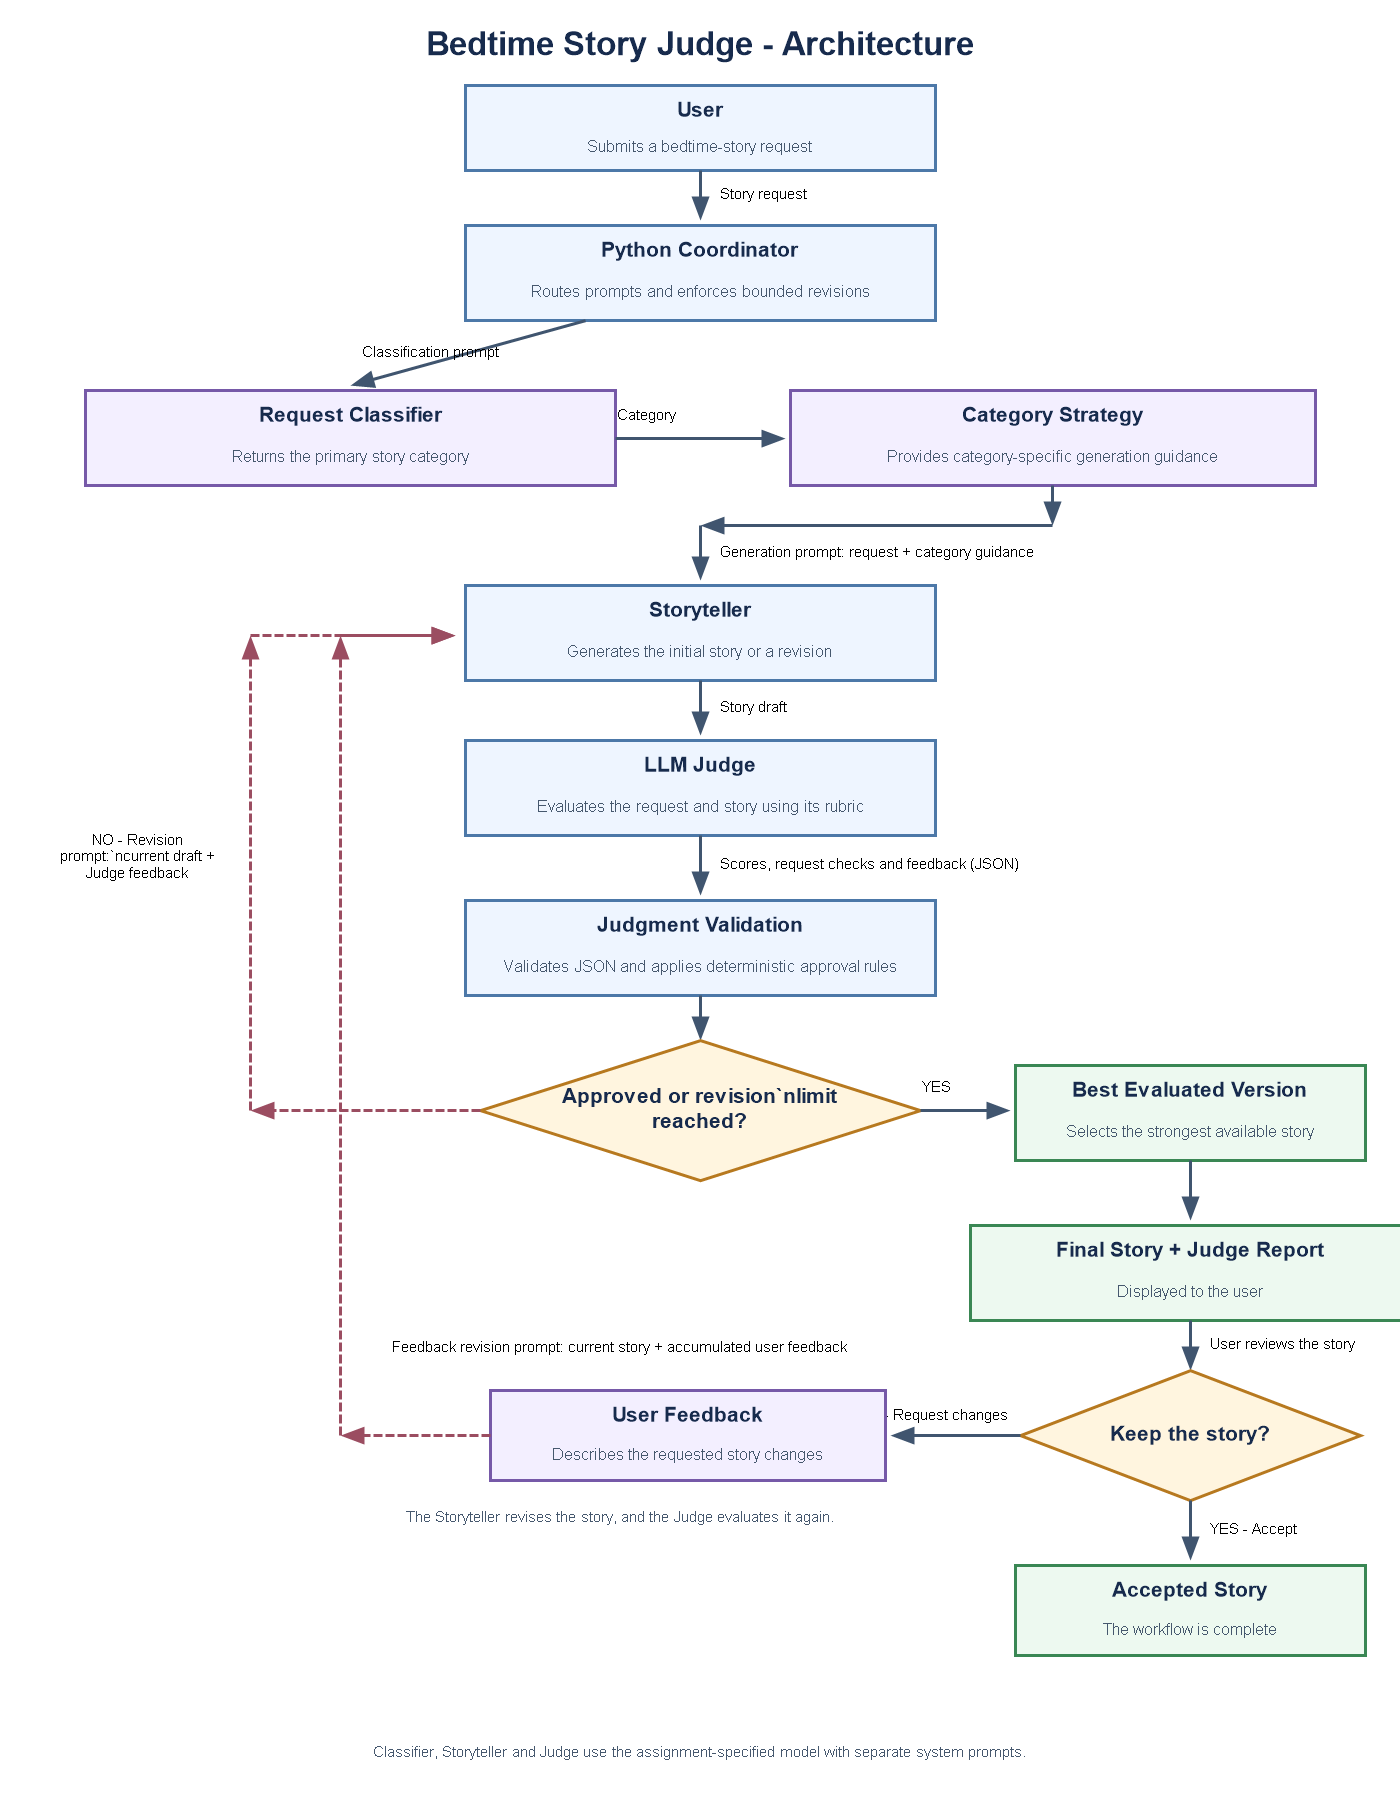
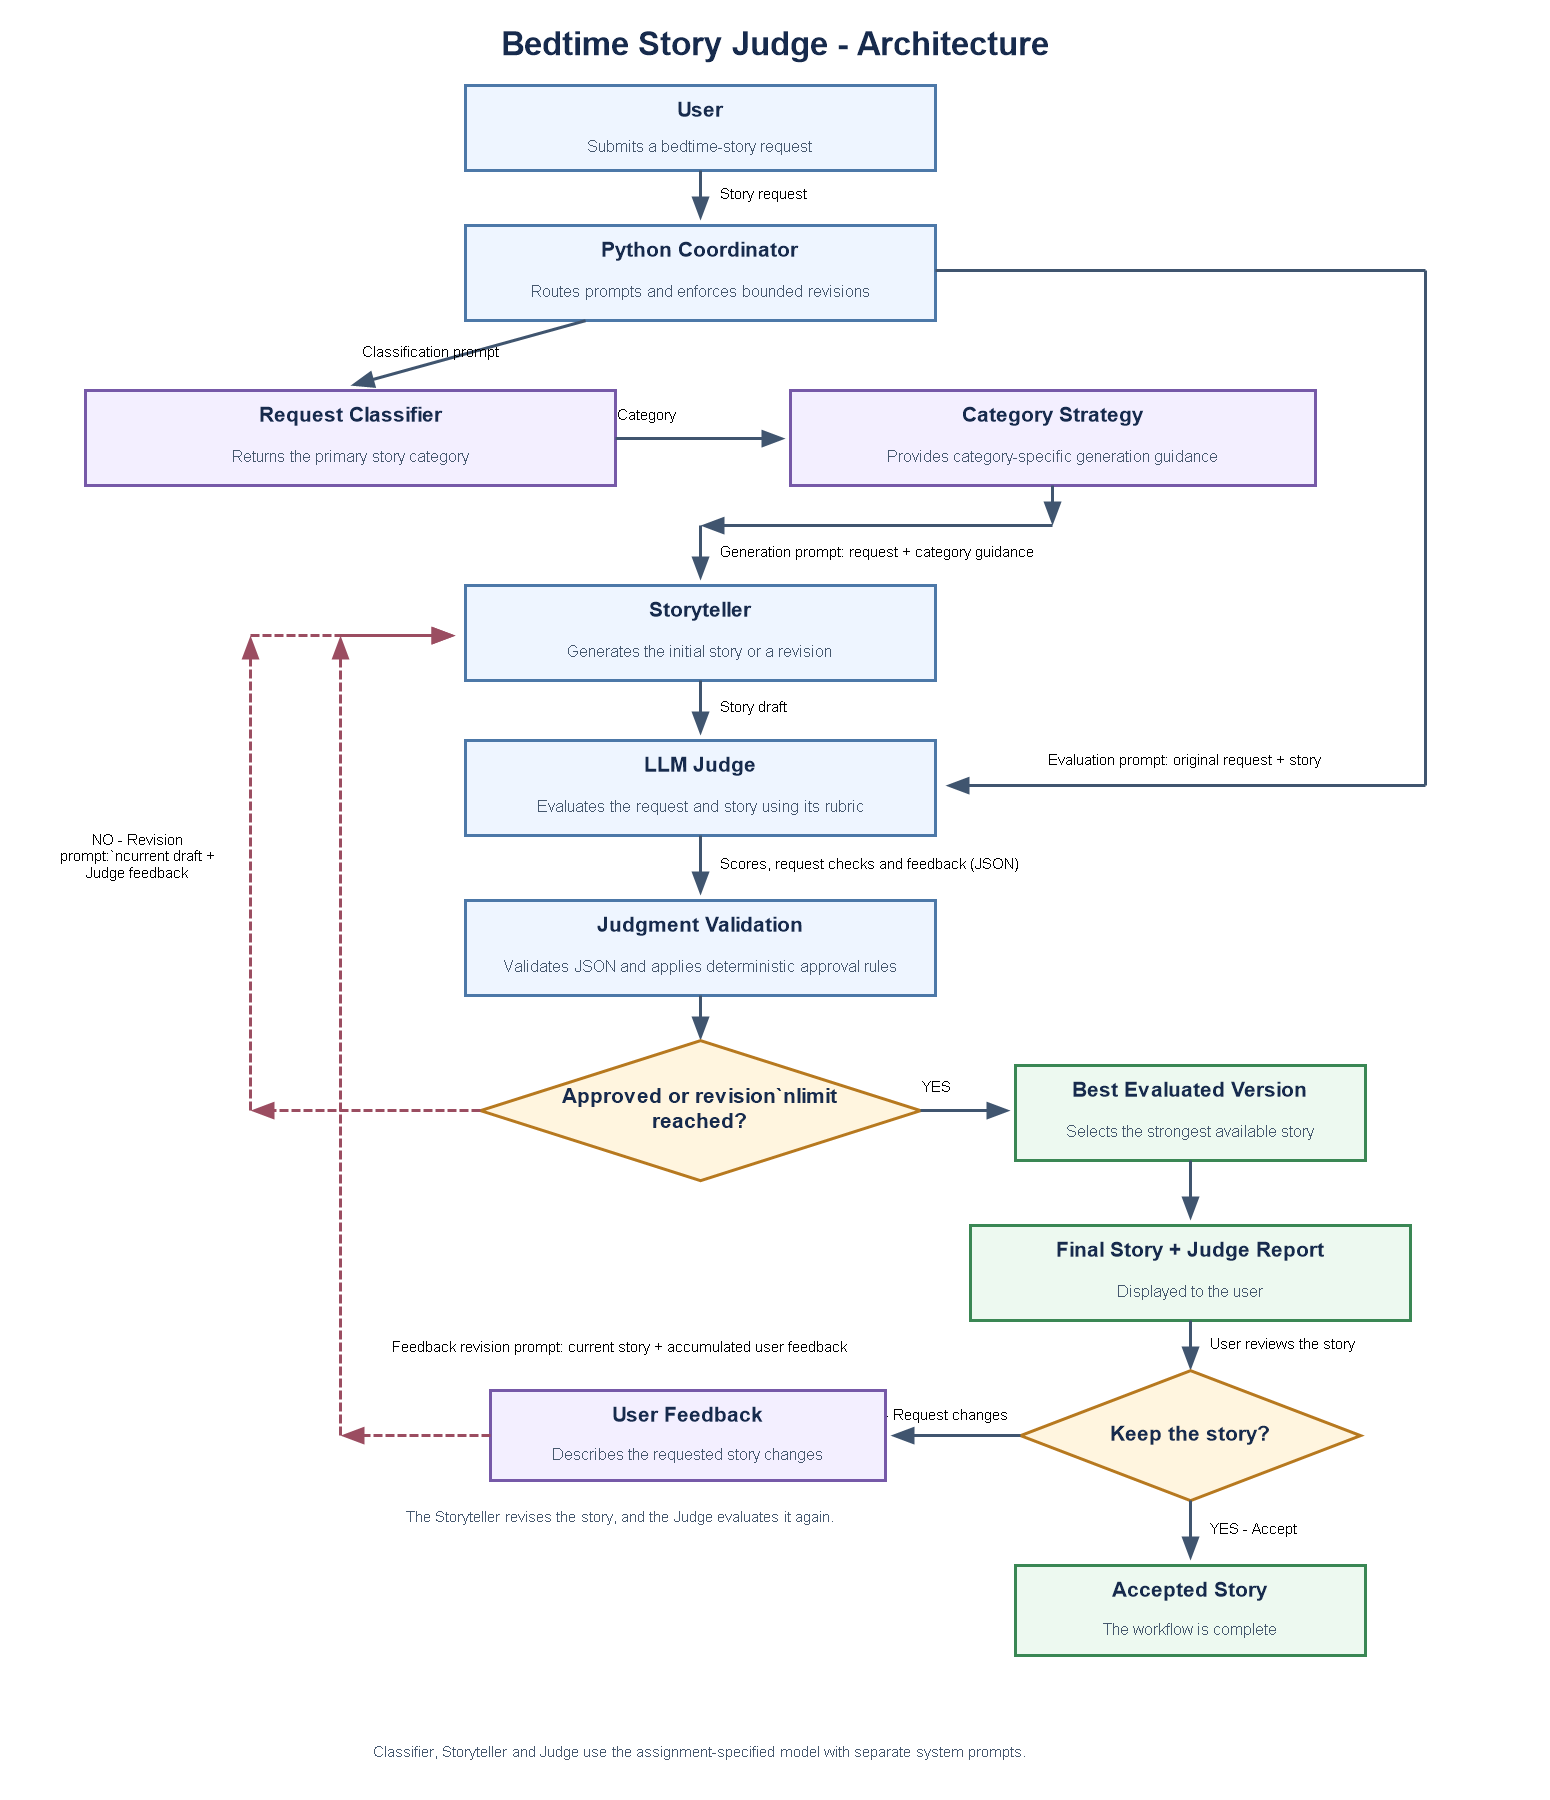
Updated README.md

diff --git a/README.md b/README.md
@@ -203,13 +203,3 @@ pytest
 
 The test suite mocks the model boundary, so running the tests does not consume API
 credits or require network access.
-
-## Assignment requirements covered
-
-- Produces bedtime stories appropriate for children ages 5–10.
-- Uses an LLM Judge to evaluate and improve story quality.
-- Preserves the assignment-provided OpenAI model.
-- Documents prompt flow and interaction among the user, Storyteller, Judge,
-  classifier, and deterministic coordinator.
-- Supports the suggested request categorization, tailored strategies, and user
-  feedback workflow.
